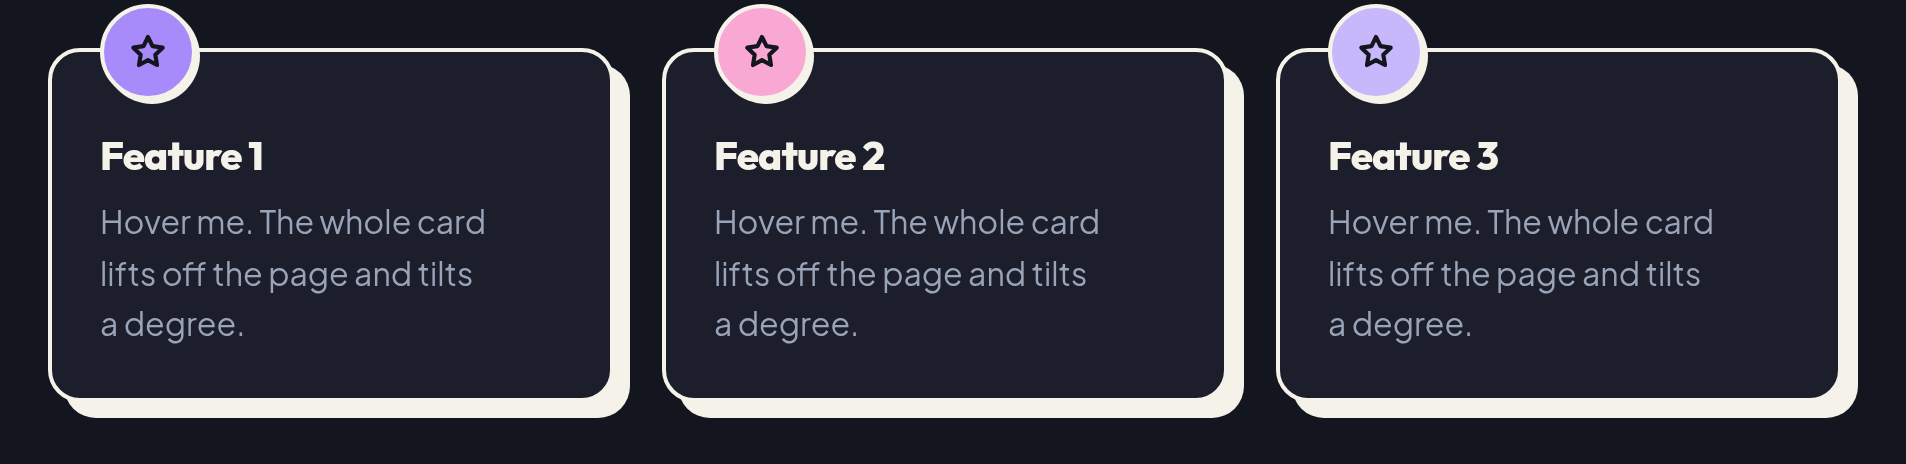
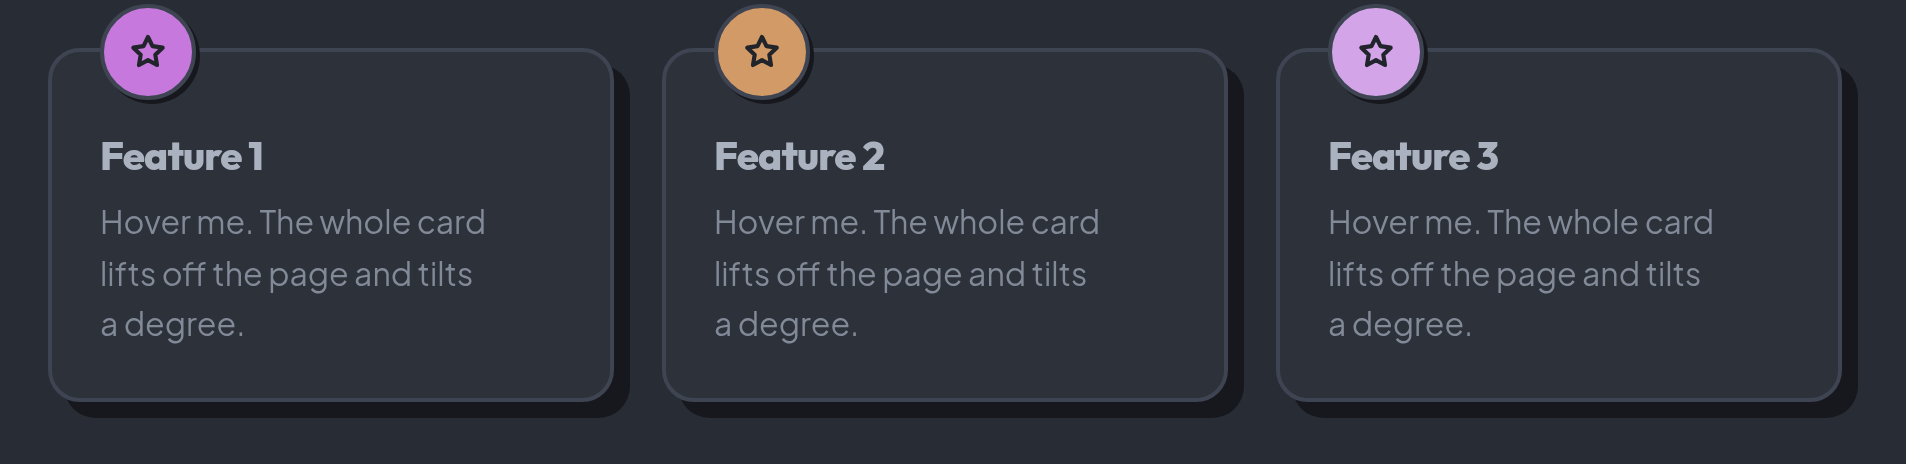
🛠 retune the dark theme to One Dark, and drop the personal attribution
The dark theme was an inversion of the light one — near-white ink, near-white
2px borders on everything — which read as high-contrast rather than dark.
This is One Dark's own chrome instead: #282c34 paper, #abb2bf ink, and
borders at #3e4451 so the outlines read as structure. The syntax accents do
duty as the semantic palette, and since all of them are mid-tone, filled
surfaces now declare dark ink on top rather than inheriting a light one.

Ink-filled blocks were the worst of it: a table head or a <pre> took
var(--ja-ink), so in dark they became a light slab dropped into the middle
of a dark page. Split out --ja-ink-fill, which the dark theme sends deeper
instead of lighter. It resolves to the ink in both light themes, so nothing
changes there, and the brutal skin opts back into the slab — high contrast
is that skin's whole point.

The dark palette has to be declared twice, once for the attribute and once
for prefers-color-scheme, so lint:css now fails if the two drift. It caught
a real divergence I introduced while writing this.

Only the three dark images changed when every screenshot was regenerated,
which is the light theme confirming it was left alone.

diff --git a/src/styles/base/tokens.css b/src/styles/base/tokens.css
@@ -153,6 +153,12 @@
   --ja-border-color-subtle: var(--ja-slate-200);
   --ja-border: var(--ja-border-width) solid var(--ja-border-color);
 
+  /* A block filled with solid ink — table heads, code blocks. Split out from
+     --ja-ink so a dark theme can dial it down instead of flipping to a light
+     slab in the middle of a dark page. */
+  --ja-ink-fill: var(--ja-ink);
+  --ja-ink-fill-fg: var(--ja-cream);
+
   --ja-link-color: color-mix(in srgb, var(--ja-primary) 82%, var(--ja-ink));
   --ja-link-hover-color: var(--ja-primary);
   --ja-link-decoration: underline;
@@ -225,95 +231,191 @@
 }
 
 /* =============================================================================
-   Dark theme — the ink and the paper swap, shadows go light
+   Dark theme — One Dark
+   -----------------------------------------------------------------------------
+   The two rules below must stay identical: the attribute is the explicit
+   choice, the media query is the OS default. `npm run lint:css` fails if they
+   drift.
    ============================================================================= */
 
 :root[data-ja-theme="dark"],
 [data-ja-theme="dark"] {
-  --ja-cream: #14161f;
-  --ja-ink: #f4f2e9;
-  --ja-white: #1c1f2b;
+  /* --- Paper and ink ------------------------------------------------------
+     Not an inversion of the light theme: One Dark's own chrome. The paper is
+     a desaturated blue-grey, the ink is a soft #abb2bf rather than white, and
+     the borders step back to #3e4451 so the 2px outlines read as structure
+     instead of glare.
+     ---------------------------------------------------------------------- */
+  --ja-cream: #282c34;
+  --ja-ink: #abb2bf;
+  --ja-white: #2c313a;
 
-  --ja-slate-50: #232735;
-  --ja-slate-100: #232735;
-  --ja-slate-200: #2f3444;
-  --ja-slate-300: #414859;
-  --ja-slate-400: #7c869c;
-  --ja-slate-500: #9aa4b8;
-  --ja-slate-600: #c2cad8;
-  --ja-slate-700: #dde3ec;
-  --ja-slate-800: #f4f2e9;
-  --ja-slate-900: #ffffff;
+  --ja-slate-50: #2c313a;
+  --ja-slate-100: #323842;
+  --ja-slate-200: #3e4451;
+  --ja-slate-300: #4b5263;
+  --ja-slate-400: #5c6370;
+  --ja-slate-500: #828997;
+  --ja-slate-600: #9da5b4;
+  --ja-slate-700: #abb2bf;
+  --ja-slate-800: #c5ccd6;
+  --ja-slate-900: #dfe4ec;
 
-  --ja-violet: #a78bfa;
-  --ja-pink: #f9a8d4;
-  --ja-lilac: #c7b8fb;
-  --ja-amber: #fcd34d;
-  --ja-mint: #6ee7b7;
-  --ja-sky: #7dd3fc;
-  --ja-red: #ff8f8f;
+  /* One Dark's syntax accents, doing duty as the semantic palette. */
+  --ja-violet: #c678dd;
+  --ja-lilac: #d3a5e8;
+  --ja-pink: #e06c75;
+  --ja-amber: #e5c07b;
+  --ja-mint: #98c379;
+  --ja-sky: #61afef;
+  --ja-red: #e06c75;
+  --ja-cyan: #56b6c2;
+  --ja-orange: #d19a66;
 
-  --ja-primary-fg: #14161f;
-  --ja-secondary-fg: #14161f;
-  --ja-dark: #f4f2e9;
-  --ja-dark-fg: #14161f;
-  --ja-light: #2f3444;
-  --ja-light-fg: #f4f2e9;
+  --ja-info: var(--ja-cyan);
+  --ja-pop: var(--ja-orange);
+
+  /* Every accent is mid-tone, so filled surfaces take dark ink on top. */
+  --ja-primary-fg: #21252b;
+  --ja-secondary-fg: #21252b;
+  --ja-success-fg: #21252b;
+  --ja-info-fg: #21252b;
+  --ja-warning-fg: #21252b;
+  --ja-danger-fg: #21252b;
+  --ja-pop-fg: #21252b;
+  --ja-fresh-fg: #21252b;
+  --ja-light: var(--ja-slate-200);
+  --ja-light-fg: var(--ja-slate-700);
+  --ja-dark: var(--ja-slate-800);
+  --ja-dark-fg: #21252b;
+  --ja-secondary: var(--ja-slate-500);
 
   --ja-body-bg: var(--ja-cream);
   --ja-surface: var(--ja-white);
-  --ja-surface-raised: var(--ja-slate-50);
-  --ja-surface-sunken: var(--ja-slate-50);
-  --ja-secondary: var(--ja-slate-500);
-  --ja-control-bg: var(--ja-slate-50);
+  --ja-surface-raised: var(--ja-slate-100);
+  --ja-surface-sunken: #21252b;
+  /* Ink is mid-grey here, so hover states lift with light, not with ink. */
+  --ja-surface-hover: color-mix(in srgb, #ffffff 6%, transparent);
+  --ja-surface-active: color-mix(in srgb, #ffffff 11%, transparent);
+
+  --ja-text-inverse: #21252b;
+
+  /* The whole reason this theme reads as calm: borders stop shouting. */
+  --ja-border-color: #3e4451;
+  --ja-border-color-strong: #4b5263;
+  --ja-border-color-subtle: #353b45;
+  --ja-ink-fill: #21252b;
+  --ja-ink-fill-fg: var(--ja-slate-700);
+
+  /* Hard offset shadows still, but cast in the dark rather than in the ink. */
+  --ja-shadow-color: #16181d;
+
+  --ja-link-color: var(--ja-sky);
+  --ja-link-hover-color: #8cc6f7;
+
+  --ja-code-color: #98c379;
+  --ja-code-bg: #21252b;
+
+  --ja-ring-color: var(--ja-sky);
+  --ja-focus-fill: color-mix(in srgb, var(--ja-sky) 20%, var(--ja-white));
+
+  --ja-control-bg: #21252b;
   --ja-control-disabled-bg: var(--ja-slate-100);
-  --ja-code-bg: color-mix(in srgb, var(--ja-primary) 16%, var(--ja-white));
-  --ja-focus-fill: color-mix(in srgb, var(--ja-warning) 24%, var(--ja-white));
-  --ja-backdrop-bg: color-mix(in srgb, #000 70%, transparent);
+  --ja-control-disabled-color: var(--ja-slate-400);
+  --ja-control-placeholder-color: var(--ja-slate-400);
+
+  --ja-backdrop-bg: color-mix(in srgb, #14161a 74%, transparent);
+  --ja-pattern-color: color-mix(in srgb, #ffffff 7%, transparent);
 }
 
 @media (prefers-color-scheme: dark) {
   :root:not([data-ja-theme="light"]) {
-    --ja-cream: #14161f;
-    --ja-ink: #f4f2e9;
-    --ja-white: #1c1f2b;
+    /* --- Paper and ink ------------------------------------------------------
+       Not an inversion of the light theme: One Dark's own chrome. The paper is
+       a desaturated blue-grey, the ink is a soft #abb2bf rather than white, and
+       the borders step back to #3e4451 so the 2px outlines read as structure
+       instead of glare.
+       ---------------------------------------------------------------------- */
+    --ja-cream: #282c34;
+    --ja-ink: #abb2bf;
+    --ja-white: #2c313a;
 
-    --ja-slate-50: #232735;
-    --ja-slate-100: #232735;
-    --ja-slate-200: #2f3444;
-    --ja-slate-300: #414859;
-    --ja-slate-400: #7c869c;
-    --ja-slate-500: #9aa4b8;
-    --ja-slate-600: #c2cad8;
-    --ja-slate-700: #dde3ec;
-    --ja-slate-800: #f4f2e9;
-    --ja-slate-900: #ffffff;
+    --ja-slate-50: #2c313a;
+    --ja-slate-100: #323842;
+    --ja-slate-200: #3e4451;
+    --ja-slate-300: #4b5263;
+    --ja-slate-400: #5c6370;
+    --ja-slate-500: #828997;
+    --ja-slate-600: #9da5b4;
+    --ja-slate-700: #abb2bf;
+    --ja-slate-800: #c5ccd6;
+    --ja-slate-900: #dfe4ec;
 
-    --ja-violet: #a78bfa;
-    --ja-pink: #f9a8d4;
-    --ja-lilac: #c7b8fb;
-    --ja-amber: #fcd34d;
-    --ja-mint: #6ee7b7;
-    --ja-sky: #7dd3fc;
-    --ja-red: #ff8f8f;
+    /* One Dark's syntax accents, doing duty as the semantic palette. */
+    --ja-violet: #c678dd;
+    --ja-lilac: #d3a5e8;
+    --ja-pink: #e06c75;
+    --ja-amber: #e5c07b;
+    --ja-mint: #98c379;
+    --ja-sky: #61afef;
+    --ja-red: #e06c75;
+    --ja-cyan: #56b6c2;
+    --ja-orange: #d19a66;
 
-    --ja-primary-fg: #14161f;
-    --ja-secondary-fg: #14161f;
-    --ja-dark: #f4f2e9;
-    --ja-dark-fg: #14161f;
-    --ja-light: #2f3444;
-    --ja-light-fg: #f4f2e9;
+    --ja-info: var(--ja-cyan);
+    --ja-pop: var(--ja-orange);
+
+    /* Every accent is mid-tone, so filled surfaces take dark ink on top. */
+    --ja-primary-fg: #21252b;
+    --ja-secondary-fg: #21252b;
+    --ja-success-fg: #21252b;
+    --ja-info-fg: #21252b;
+    --ja-warning-fg: #21252b;
+    --ja-danger-fg: #21252b;
+    --ja-pop-fg: #21252b;
+    --ja-fresh-fg: #21252b;
+    --ja-light: var(--ja-slate-200);
+    --ja-light-fg: var(--ja-slate-700);
+    --ja-dark: var(--ja-slate-800);
+    --ja-dark-fg: #21252b;
+    --ja-secondary: var(--ja-slate-500);
 
     --ja-body-bg: var(--ja-cream);
     --ja-surface: var(--ja-white);
-    --ja-surface-raised: var(--ja-slate-50);
-    --ja-surface-sunken: var(--ja-slate-50);
-    --ja-secondary: var(--ja-slate-500);
-    --ja-control-bg: var(--ja-slate-50);
+    --ja-surface-raised: var(--ja-slate-100);
+    --ja-surface-sunken: #21252b;
+    /* Ink is mid-grey here, so hover states lift with light, not with ink. */
+    --ja-surface-hover: color-mix(in srgb, #ffffff 6%, transparent);
+    --ja-surface-active: color-mix(in srgb, #ffffff 11%, transparent);
+
+    --ja-text-inverse: #21252b;
+
+    /* The whole reason this theme reads as calm: borders stop shouting. */
+    --ja-border-color: #3e4451;
+    --ja-border-color-strong: #4b5263;
+    --ja-border-color-subtle: #353b45;
+    --ja-ink-fill: #21252b;
+    --ja-ink-fill-fg: var(--ja-slate-700);
+
+    /* Hard offset shadows still, but cast in the dark rather than in the ink. */
+    --ja-shadow-color: #16181d;
+
+    --ja-link-color: var(--ja-sky);
+    --ja-link-hover-color: #8cc6f7;
+
+    --ja-code-color: #98c379;
+    --ja-code-bg: #21252b;
+
+    --ja-ring-color: var(--ja-sky);
+    --ja-focus-fill: color-mix(in srgb, var(--ja-sky) 20%, var(--ja-white));
+
+    --ja-control-bg: #21252b;
     --ja-control-disabled-bg: var(--ja-slate-100);
-    --ja-code-bg: color-mix(in srgb, var(--ja-primary) 16%, var(--ja-white));
-    --ja-focus-fill: color-mix(in srgb, var(--ja-warning) 24%, var(--ja-white));
-    --ja-backdrop-bg: color-mix(in srgb, #000 70%, transparent);
+    --ja-control-disabled-color: var(--ja-slate-400);
+    --ja-control-placeholder-color: var(--ja-slate-400);
+
+    --ja-backdrop-bg: color-mix(in srgb, #14161a 74%, transparent);
+    --ja-pattern-color: color-mix(in srgb, #ffffff 7%, transparent);
   }
 }
 
@@ -405,6 +507,8 @@
   --ja-white: #1c1f2b;
   --ja-dark-fg: #14161f;
   --ja-primary-fg: #14161f;
+  --ja-ink-fill: var(--ja-ink);
+  --ja-ink-fill-fg: var(--ja-cream);
 }
 
 @media (prefers-color-scheme: dark) {
@@ -414,6 +518,8 @@
     --ja-white: #1c1f2b;
     --ja-dark-fg: #14161f;
     --ja-primary-fg: #14161f;
+    --ja-ink-fill: var(--ja-ink);
+    --ja-ink-fill-fg: var(--ja-cream);
   }
 }
 

diff --git a/src/styles/components/table.css b/src/styles/components/table.css
@@ -11,8 +11,8 @@
   --ja-table-striped-bg: color-mix(in srgb, var(--ja-ink) 5%, transparent);
   --ja-table-hover-bg: color-mix(in srgb, var(--ja-pop) 25%, transparent);
   --ja-table-active-bg: color-mix(in srgb, var(--ja-primary) 20%, transparent);
-  --ja-table-head-bg: var(--ja-ink);
-  --ja-table-head-color: var(--ja-cream);
+  --ja-table-head-bg: var(--ja-ink-fill);
+  --ja-table-head-color: var(--ja-ink-fill-fg);
   --ja-table-divider: var(--ja-border-width) solid var(--ja-border-color);
 
   inline-size: 100%;

diff --git a/site/index.html b/site/index.html
@@ -119,7 +119,7 @@ import { Modal, CommandPalette } from '@cleancookie/ja-ui';</code></pre>
     </main>
 
     <footer class="container py-6 d-flex flex-wrap align-items-center justify-content-between gap-3">
-      <span class="text-muted">MIT · built by Alex Law</span>
+      <span class="text-muted">MIT licensed</span>
       <a href="https://github.com/Cleancookie/ja-ui">github.com/Cleancookie/ja-ui</a>
     </footer>
 

diff --git a/src/styles/base/typography.css b/src/styles/base/typography.css
@@ -168,8 +168,8 @@ pre {
   padding: var(--ja-space-4);
   border: var(--ja-border-width) solid var(--ja-border-color);
   border-radius: var(--ja-radius);
-  background-color: var(--ja-ink);
-  color: var(--ja-cream);
+  background-color: var(--ja-ink-fill);
+  color: var(--ja-ink-fill-fg);
   font-size: var(--ja-font-size-sm);
   line-height: 1.6;
   tab-size: 2;

diff --git a/README.md b/README.md
@@ -248,7 +248,13 @@ base colour.
 
 ### Dark mode
 
-Follows `prefers-color-scheme` on its own. Force it with `data-ja-theme="light" | "dark"`
+The default skin's dark theme is **One Dark**: `#282c34` paper, `#abb2bf` ink, and borders
+that step back to `#3e4451` so the 2px outlines read as structure rather than glare. It is
+not an inversion of the light theme — an ink-filled block (a table head, a `<pre>`) goes
+deeper via `--ja-ink-fill` instead of flipping to a light slab mid-page. The `brutal` skin
+keeps its high-contrast dark, because that is the point of that skin.
+
+Dark follows `prefers-color-scheme` on its own. Force it with `data-ja-theme="light" | "dark"`
 on `<html>`, or from JavaScript:
 
 ```js
@@ -387,4 +393,4 @@ stories/         Storybook
 
 ## Licence
 
-MIT © Alex Law
+MIT

diff --git a/CONTRIBUTING.md b/CONTRIBUTING.md
@@ -8,6 +8,8 @@
    Components own their padding and internal `gap`, nothing more.
 3. **Every visual value is a token.** If you write a colour, radius, shadow or duration
    literal inside a component, it belongs in `src/styles/base/tokens.css` instead.
+   The dark theme is declared twice — once for `[data-ja-theme="dark"]`, once for
+   `prefers-color-scheme` — and `npm run lint:css` fails if the two drift apart.
 4. **Bootstrap's class names, ja-ui's data attributes.** Classes mirror Bootstrap 5 so
    markup ports across. JavaScript hooks are `data-ja-*` and events are `ja:*`, so the
    two libraries never fight over behaviour.
